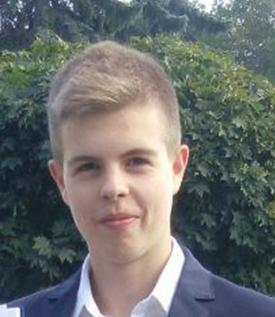
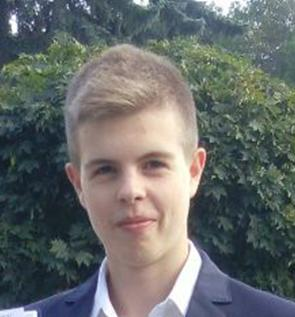
new photo

diff --git a/index.html b/index.html
@@ -1,4 +1,4 @@
-<!DOCTYPE html>
+<!DOCTYPE html>
 <html>
 <head>
     <meta charset="utf-8">
@@ -17,7 +17,7 @@
         <table>
             <tr>
                 <td rowspan="3">
-                    <img src="alexparh.png" alt="Alexandr Pakhomenko" title="Alexandr Pakhomenko" />
+                    <img src="me.jpg" alt="Alexandr Pakhomenko" title="Alexandr Pakhomenko" />
                 </td>
             </tr>
             <tr>
